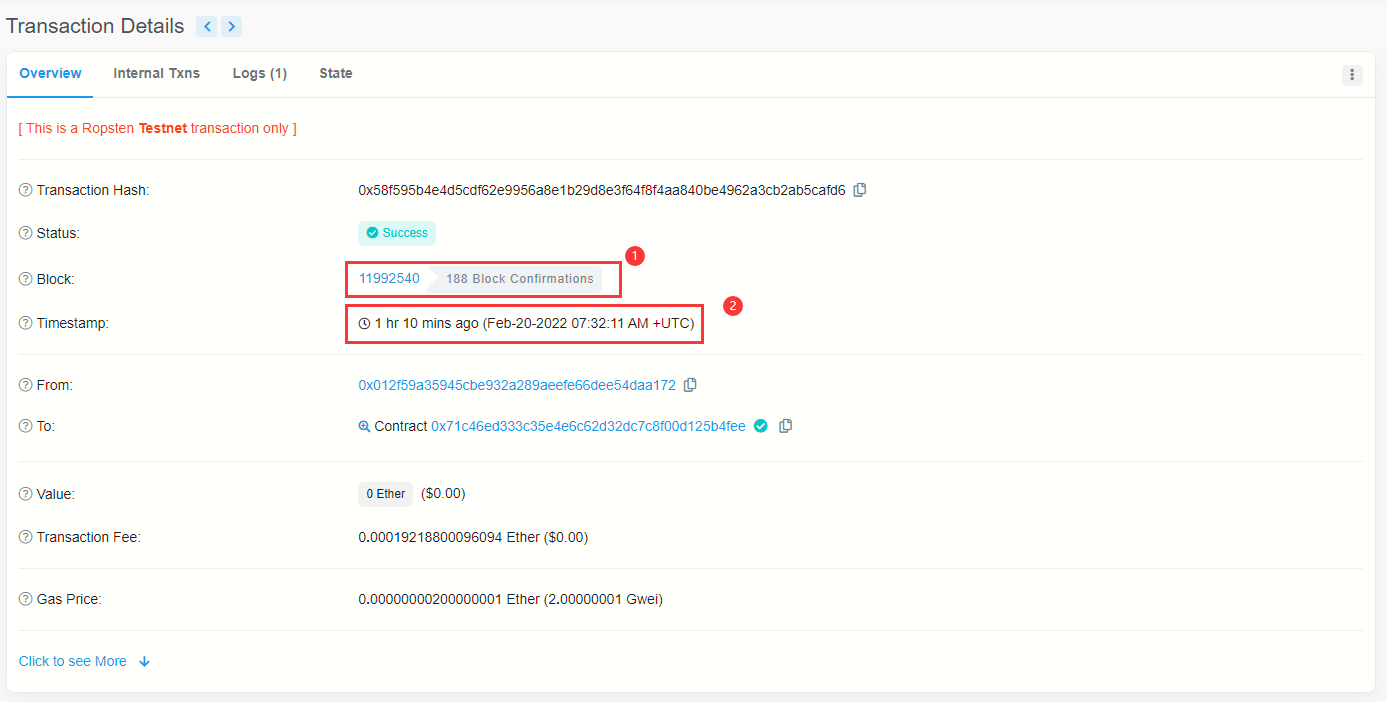
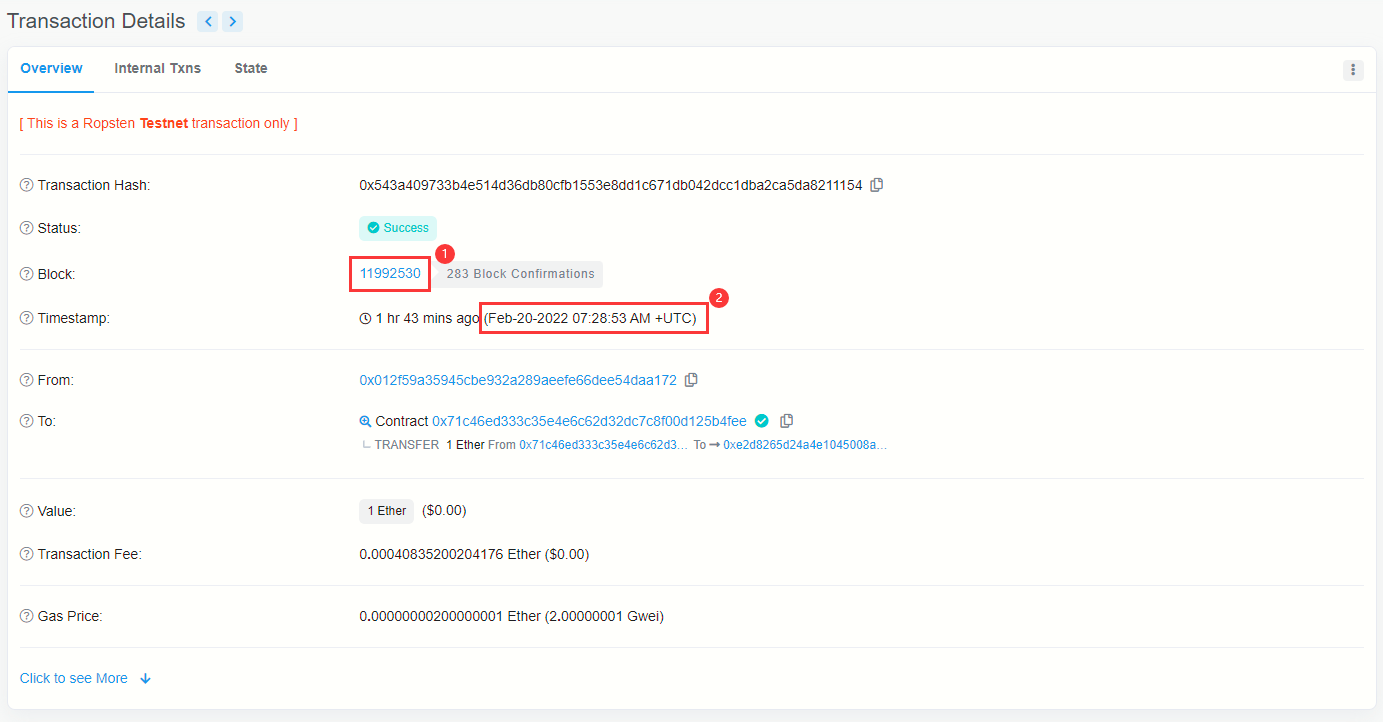
guess random写完

diff --git a/block-ctf.md b/block-ctf.md
@@ -10,8 +10,8 @@
 
 * Write-Up
 
-```c
-  直接点击 Begin Challenge ，metamask会弹出是否发送消息的对话框，点击确定。
+```
+  直接点击 Begin Challenge , metamask 会弹出是否发送消息的对话框，点击确定。
   Begin Challenge 的圈圈转好之后，点击 Check Solution ，同样metamask会弹出是否发送消息的对话框，点击确定。
 ```
 
@@ -70,8 +70,46 @@
 
   虽然uint8只有255种可能，但是`isComplete()`要求`address(this).balance == 0`。那么一次环境只能`guess`一次。所以我们要在`guess`前，先计算出来answer的值。
 
+  >  answer = uint8(keccak256(block.blockhash(block.number - 1), now));
+
+  > `block.number` 即本区块的区块号
+>
+  > `block.blockhash` 即目标区块号的区块哈希（`block.blockhash` 在 0.4.22 开始不推荐使用，在 0.5.0 已经移除了）
+  >
+  > `now` 即本区块号的时间戳，其值等于block.timestamp（在 0.7.0, `now` 被移除了）
+  
   在`etherscan.io`上搜索合约，以`0xe2d8265D24A4e1045008AEAD2175C46dFA55b834`这个合约地址为例。
-
+  
   ![](https://github.com/Karry-Almond/blog.io/raw/gh-pages/pic/blockchain-ctf-guessrandom1.png)
-
+  
   ![](https://github.com/Karry-Almond/blog.io/raw/gh-pages/pic/blockchain-ctf-guessrandom2.png)
+  
+   一号是block号，点击进去后可以查看blockhash，也可以切换到别的block号进行查看。得到
+  
+  > block.blockhash(block.number - 1) = 0xbf411fd6aafdb859366aa052324f4580e735387e4b49cf8d4828433c6b3eeed0
+  
+  二号是timestamp。也就是构造体中的`now`。得到`Feb-20-2022 07:28:53 AM +UTC`。我们通过随便一个时间戳转换网址，把`UTC时间转换成UNIX时间戳`，得到时间戳`1645342133`。
+  
+  
+  
+  接着构造一个合约用于计算`keccak256`，合约如下。执行合约得解。
+  
+  ```
+  pragma solidity ^0.4.21;
+  
+  contract GuessTheRandomNumberChallenge {
+      uint8 public answer;
+  
+      function guess() public payable returns(uint8){
+  		answer = uint8(keccak256(bytes32(0xbf411fd6aafdb859366aa052324f4580e735387e4b49cf8d4828433c6b3eeed0), uint(1645342133)));
+  		
+  		return answer;
+      }
+  }
+  ```
+  
[1 lines of base64/hex data omitted]
+  >
+  > 因为`block.blockhash`返回值是`bytes32`，`now`返回值是`uint`
+  
+  
